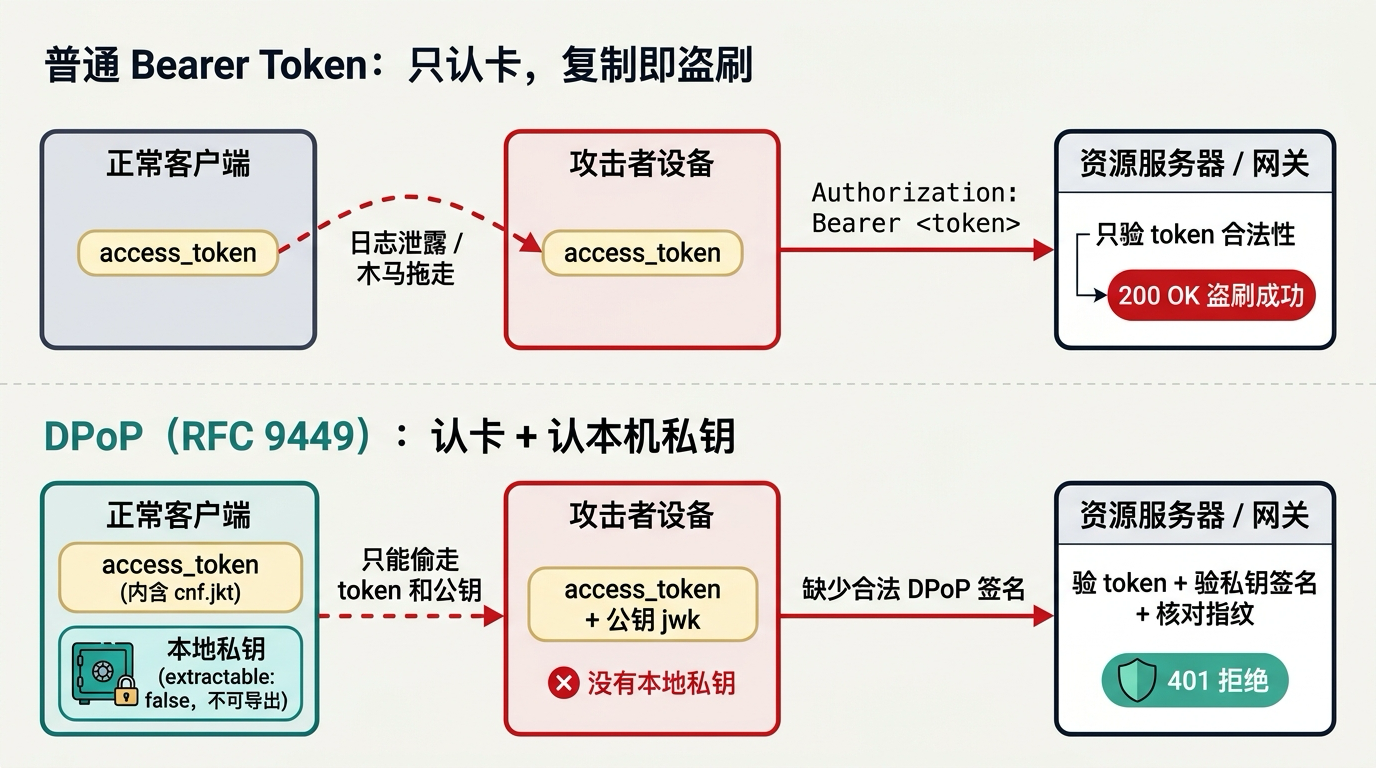
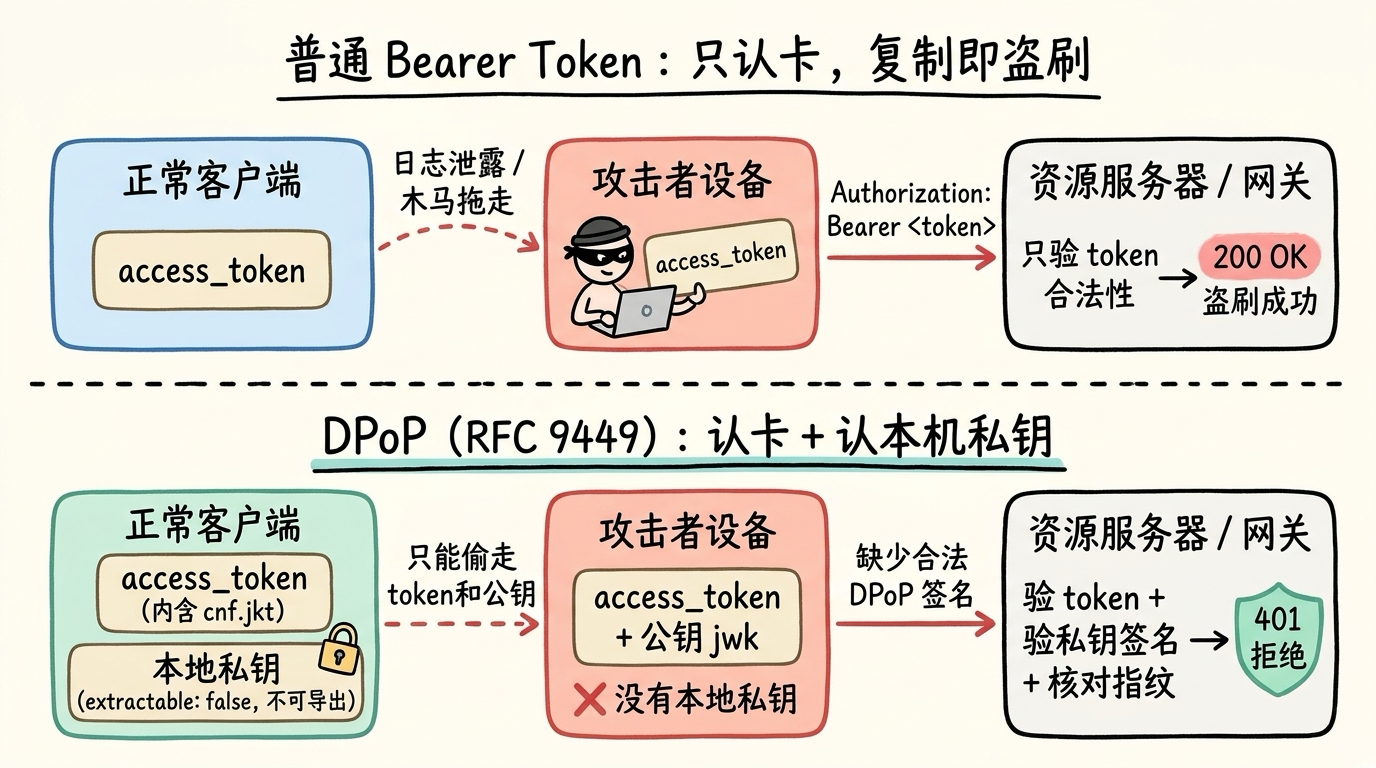
docs(architecture): replace DPoP diagrams with hand-drawn style and ban 算法族 jargon

diff --git a/wiki/topics/systems/asymmetric-cryptography.md b/wiki/topics/systems/asymmetric-cryptography.md
@@ -63,9 +63,9 @@ flowchart LR
 - **TLS / HTTPS 密钥协商与混合加密**：非对称运算比对称加密（如 AES-GCM）慢得多，工程上很少直接用非对称公钥去加密大段业务数据，而是用非对称密钥交换（如 ECDHE）或公钥加密协商出一把临时的对称会话密钥，后续数据全部用对称密钥高速加解密（RFC 8446）。
 - **端到端加密消息与文件加密（如 PGP / age）**：发送方用接收方的公钥加密内容密钥（或短消息），确保中间服务器无法读取原文，只有持有私钥的接收方能够解密。
 
-## 常见算法族
+## 常见算法
 
-| 算法族 | 典型签名算法 | 特点 |
+| 算法 | 典型签名算法 | 特点 |
 | --- | --- | --- |
 | **RSA**（RFC 8017） | `RS256`、`PS256` | 生态最古老、兼容性广；同等安全强度下密钥较长（常见 2048/3072 bit），签名体积较大 |
 | **ECDSA**（FIPS 186-5） | `ES256`（P-256）、`ES384` | 同等安全强度下密钥与签名远短于 RSA，浏览器 Web Crypto API 与移动端安全芯片原生支持好 |
